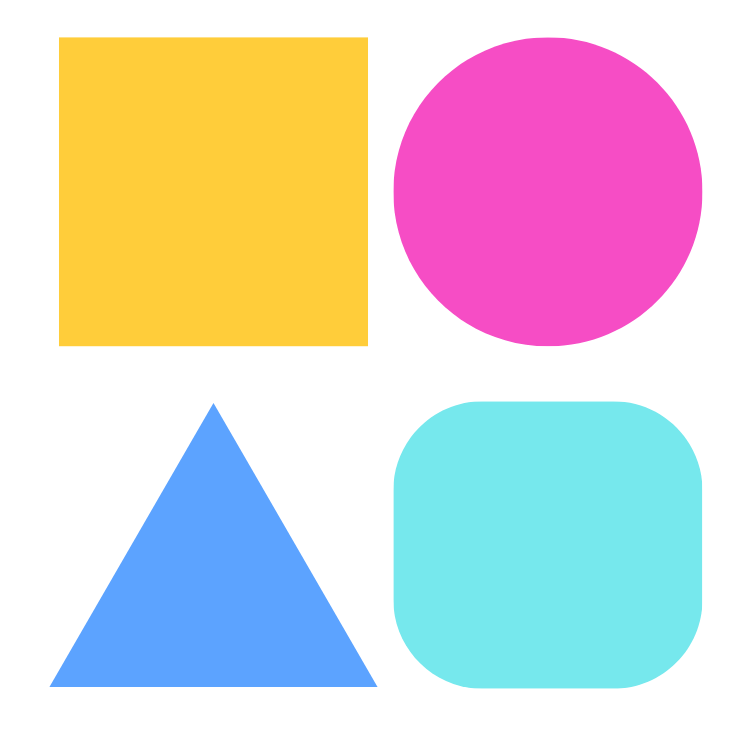
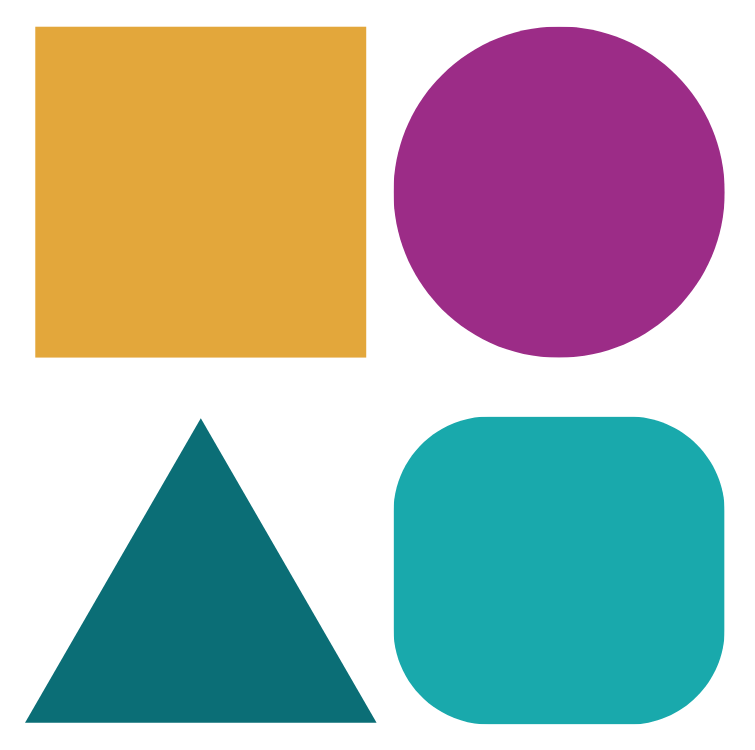
cambio de imagen de marca profesional en la portada del sitio web

diff --git a/themes/hugo-profile/layouts/partials/sections/footer/socialNetwork.html b/themes/hugo-profile/layouts/partials/sections/footer/socialNetwork.html
@@ -2,9 +2,9 @@
     {{ if .Site.Params.footer.socialNetworks.linkedin }}
     <span class="px-1">
         <a href="{{ .Site.Params.footer.socialNetworks.linkedin }}" aria-label="linkedin">
-            <svg xmlns="http://www.w3.org/2000/svg" width='2.4em' height='2.4em' fill="#fff" aria-label="LinkedIn"
+            <svg xmlns="http://www.w3.org/2000/svg" width='1.92em' height='1.92em' fill="#fff" aria-label="LinkedIn"
                 viewBox="0 0 512 512">
-                <rect width="512" height="512" fill="#0077b5" rx="15%" />
+                <rect width="512" height="512" fill="#9C2C87" rx="15%" />
                 <circle cx="142" cy="138" r="37" />
                 <path stroke="#fff" stroke-width="66" d="M244 194v198M142 194v198" />
                 <path d="M276 282c0-20 13-40 36-40 24 0 33 18 33 45v105h66V279c0-61-32-89-76-89-34 0-51 19-59 32" />
@@ -16,7 +16,7 @@
     {{ if .Site.Params.footer.socialNetworks.github }}
     <span class="px-1">
         <a href="{{ .Site.Params.footer.socialNetworks.github }}" aria-label="github">
-            <svg xmlns="http://www.w3.org/2000/svg" width="2.7em" height="2.7em" viewBox="0 0 1792 1792">
+            <svg xmlns="http://www.w3.org/2000/svg" width="2.16em" height="2.16em" viewBox="0 0 1792 1792" fill="#9C2C87">
                 <path
                     d="M522 1352q-8 9-20-3-13-11-4-19 8-9 20 3 12 11 4 19zm-42-61q9 12 0 19-8 6-17-7t0-18q9-7 17 6zm-61-60q-5 7-13 2-10-5-7-12 3-5 13-2 10 5 7 12zm31 34q-6 7-16-3-9-11-2-16 6-6 16 3 9 11 2 16zm129 112q-4 12-19 6-17-4-13-15t19-7q16 5 13 16zm63 5q0 11-16 11-17 2-17-11 0-11 16-11 17-2 17 11zm58-10q2 10-14 14t-18-8 14-15q16-2 18 9zm964-956v960q0 119-84.5 203.5t-203.5 84.5h-224q-16 0-24.5-1t-19.5-5-16-14.5-5-27.5v-239q0-97-52-142 57-6 102.5-18t94-39 81-66.5 53-105 20.5-150.5q0-121-79-206 37-91-8-204-28-9-81 11t-92 44l-38 24q-93-26-192-26t-192 26q-16-11-42.5-27t-83.5-38.5-86-13.5q-44 113-7 204-79 85-79 206 0 85 20.5 150t52.5 105 80.5 67 94 39 102.5 18q-40 36-49 103-21 10-45 15t-57 5-65.5-21.5-55.5-62.5q-19-32-48.5-52t-49.5-24l-20-3q-21 0-29 4.5t-5 11.5 9 14 13 12l7 5q22 10 43.5 38t31.5 51l10 23q13 38 44 61.5t67 30 69.5 7 55.5-3.5l23-4q0 38 .5 103t.5 68q0 22-11 33.5t-22 13-33 1.5h-224q-119 0-203.5-84.5t-84.5-203.5v-960q0-119 84.5-203.5t203.5-84.5h960q119 0 203.5 84.5t84.5 203.5z" />
 
@@ -42,8 +42,8 @@
 
     {{ if .Site.Params.footer.socialNetworks.twitter }}
     <a href="{{ .Site.Params.footer.socialNetworks.twitter }}" aria-label="twitter">
-        <svg xmlns="http://www.w3.org/2000/svg" viewBox="0 0 48 48" width="48px" height="48px">
-            <path fill="#03a9f4"
+        <svg xmlns="http://www.w3.org/2000/svg" viewBox="0 0 48 48" width="38.4px" height="38.4px">
+            <path fill="#9C2C87"
                 d="M42,37c0,2.762-2.239,5-5,5H11c-2.762,0-5-2.238-5-5V11c0-2.762,2.238-5,5-5h26c2.761,0,5,2.238,5,5 V37z" />
             <path fill="#fff"
                 d="M36,17.12c-0.882,0.391-1.999,0.758-3,0.88c1.018-0.604,2.633-1.862,3-3 c-0.951,0.559-2.671,1.156-3.793,1.372C31.311,15.422,30.033,15,28.617,15C25.897,15,24,17.305,24,20v2c-4,0-7.9-3.047-10.327-6 c-0.427,0.721-0.667,1.565-0.667,2.457c0,1.819,1.671,3.665,2.994,4.543c-0.807-0.025-2.335-0.641-3-1c0,0.016,0,0.036,0,0.057 c0,2.367,1.661,3.974,3.912,4.422C16.501,26.592,16,27,14.072,27c0.626,1.935,3.773,2.958,5.928,3c-1.686,1.307-4.692,2-7,2 c-0.399,0-0.615,0.022-1-0.023C14.178,33.357,17.22,34,20,34c9.057,0,14-6.918,14-13.37c0-0.212-0.007-0.922-0.018-1.13 C34.95,18.818,35.342,18.104,36,17.12" />
@@ -53,8 +53,8 @@
 
     {{ if .Site.Params.footer.socialNetworks.email }}
     <a href="mailto:{{ .Site.Params.footer.socialNetworks.email }}" aria-label="email">
-        <svg xmlns="http://www.w3.org/2000/svg" viewBox="0 0 48 48" width="48px" height="48px">
-            <rect width="42" height="32" x="3" y="8" fill="#0958d9" rx="6" />
+        <svg xmlns="http://www.w3.org/2000/svg" viewBox="0 0 48 48" width="38.4px" height="38.4px">
+            <rect width="42" height="32" x="3" y="8" fill="#9C2C87" rx="6" />
             <path fill="#fff"
                 d="M6 12.5 24 26 42 12.5" stroke="#fff" stroke-width="2.6" stroke-linecap="round" stroke-linejoin="round" fill="none" />
         </svg>
@@ -63,7 +63,7 @@
 
     {{ if .Site.Params.footer.socialNetworks.instagram }}
     <a href="{{ .Site.Params.footer.socialNetworks.instagram }}" aria-label="instagram">
-        <svg xmlns="http://www.w3.org/2000/svg" viewBox="0 0 48 48" width="48px" height="48px">
+        <svg xmlns="http://www.w3.org/2000/svg" viewBox="0 0 48 48" width="38.4px" height="38.4px">
             <radialGradient id="yOrnnhliCrdS2gy~4tD8ma" cx="19.38" cy="42.035" r="44.899"
                 gradientUnits="userSpaceOnUse">
                 <stop offset="0" stop-color="#fd5" />
@@ -94,7 +94,7 @@
 
     {{ if .Site.Params.footer.socialNetworks.facebook }}
     <a href="{{ .Site.Params.footer.socialNetworks.facebook }}" aria-label="facebook">
-        <svg xmlns="http://www.w3.org/2000/svg" viewBox="0 0 48 48" width="48px" height="48px">
+        <svg xmlns="http://www.w3.org/2000/svg" viewBox="0 0 48 48" width="38.4px" height="38.4px">
             <path fill="#3F51B5"
                 d="M42,37c0,2.762-2.238,5-5,5H11c-2.761,0-5-2.238-5-5V11c0-2.762,2.239-5,5-5h26c2.762,0,5,2.238,5,5V37z" />
             <path fill="#FFF"

diff --git a/themes/hugo-profile/static/css/index.css b/themes/hugo-profile/static/css/index.css
@@ -72,9 +72,17 @@ header .navbar.animate {
 /* hero */
 
 #hero {
-    min-height: 100vh;
+    min-height: 75vh;
     line-height: 2rem;
     max-width: 100%;
+    /* Manual de marca: teal como color primario dentro del Hero
+       (el tema trae --primary-color en azul #0958d9; lo sobreescribimos
+       solo en este bloque para no afectar el resto del sitio todavía) */
+    --primary-color: #0B6E76;
+    background-color: #FFFFFF;
+}
+body.dark #hero {
+    background-color: #18191A;
 }
 #hero .content.animate {
     animation: fade-left 1s ease-out;
@@ -87,14 +95,22 @@ header .navbar.animate {
     left: -150px;
 }
 
+/* Bloque 3: eyebrow + párrafo de presentación */
 #hero .subtitle {
     font-size: clamp(14px,5vw,16px);
-    opacity: 0.6;
+    color: #6B6F73;
+    opacity: 1;
+}
+body.dark #hero .subtitle {
+    color: #E4CBDF;
 }
 
 #hero h2 {
-    font-size: clamp(40px, 8vw, 80px);
-    color: #a3238e !important;
+    font-size: clamp(30px, 8vw, 70px);
+    color: #9C2C87 !important;
+}
+body.dark #hero h2 {
+    color: #9C2C87 !important;
 }
 
 #hero h3 {
@@ -106,7 +122,12 @@ header .navbar.animate {
 #hero p {
     margin: 20px 0px 0px;
     max-width: 640px;
-    opacity: 0.8;
+    font-size: 16px;
+    color: #6B6F73;
+    opacity: 1;
+}
+body.dark #hero p {
+    color: #E4CBDF;
 }
 
 #hero .image img {
@@ -132,14 +153,16 @@ header .navbar.animate {
     cursor: pointer;
 }
 
+/* Bloque 5: íconos de redes sociales */
 #hero a.btn.social-icon {
-    color: var(--primary-color) !important;
+    color: #9C2C87 !important;
+    background-color: transparent !important;
     line-height: 0%;
     border-radius: 50%;
     margin-top: 50px;
     padding: 0.7rem;
-    border: 1px solid var(--primary-color);
-    transition: none;
+    border: 1px solid #9C2C87;
+    transition: background-color 0.2s ease, color 0.2s ease;
 }
 
 #hero a.btn.social-icon img {
@@ -147,31 +170,30 @@ header .navbar.animate {
 }
 
 #hero a.btn.social-icon:hover {
-    opacity: 0.8;
+    background-color: #9C2C87 !important;
+    color: #E4CBDF !important;
+    opacity: 1;
 }
 
-#hero a.btn {
+/* Bloque 4: botón "Leer más sobre mí" — contorno en reposo, se rellena al pasar el ratón */
+#hero a.btn:not(.social-icon) {
     margin-top: 50px;
-    padding: 0.7rem 1.75rem;
-    border: 1px solid var(--primary-color);
-    color: var(--text-color) !important;
+    padding: 0.7rem calc(1.75rem - 0.5cm);
+    border: 1px solid #9C2C87;
+    background-color: transparent;
+    color: #9C2C87 !important;
     border-radius: .75rem;
-    transition: none;
+    transition: background-color 0.2s ease, color 0.2s ease;
 }
 
 #hero a.btn:focus {
     box-shadow: none;
 }
 
-#hero a.btn:hover {
-    background-color: var(--secondary-color) !important;
-    color: var(--text-color) !important;
-    opacity: 0.9;
-}
-
-#hero a.btn.social-icon:hover {
-    background-color: var(--background-color) !important;
-    opacity: 0.7;
+#hero a.btn:not(.social-icon):hover {
+    background-color: #9C2C87 !important;
+    color: #E4CBDF !important;
+    opacity: 1;
 }
 
 #hero .hero-content > a {

diff --git a/themes/hugo-profile/static/css/footer.css b/themes/hugo-profile/static/css/footer.css
@@ -15,7 +15,7 @@ footer .card {
     background-color: var(--secondary-color) !important;
     border-radius: .75rem;
     cursor: context-menu;
-    overflow: hidden;
+    overflow: hidden
 }
 
 footer .card:hover {
@@ -73,16 +73,16 @@ footer .card-footer a:focus {
 
 /* botón "Leer" con la misma dinámica que el del Blog */
 #recent-posts .card-footer a.read-more-btn {
-    color: var(--primary-color) !important;
-    border: 1px solid var(--primary-color) !important;
+    color: #9C2C87 !important;
+    border: 1px solid #9C2C87 !important;
     background-color: transparent !important;
     transition: all 0.2s ease-out;
 }
 
 #recent-posts .card-footer a.read-more-btn:hover,
 #recent-posts .card-footer a.read-more-btn:focus {
-    color: var(--secondary-color) !important;
-    background-color: var(--primary-color) !important;
+    color: #E4CBDF !important;
+    background-color: #9C2C87 !important;
     opacity: 1;
     box-shadow: none !important;
 }
@@ -90,18 +90,38 @@ footer .card-footer a:focus {
 /* más espacio y una línea separadora entre el contenido de la página y el footer */
 #recent-posts {
     padding-top: 3.5rem;
-    padding-bottom: 3.5rem;
+    padding-bottom: 7rem;
     margin-top: 1.5rem;
+    margin-bottom: 3rem;
     border-top: 1px solid rgba(15, 80, 100, 0.16);
 }
 
 .social-icons {
-    margin-top: 1.5rem;
-    margin-bottom: 5rem;
+    margin-top: 10rem;
+    margin-bottom: 15rem;
 }
 
 /* aviso de copyright más discreto */
 .site-copyright {
     font-size: 0.8rem;
-    padding-top: 1rem !important;
+    padding-top: 4rem !important;
+}
+
+/* modo oscuro: colores de "Posts recientes" */
+body.dark #recent-posts .h4.text-secondary {
+    color: #E4CBDF !important;
+}
+
+body.dark #recent-posts .card-title {
+    color: #D7E2E1 !important;
+}
+
+/* hover del título del post: mismo color de marca en modo día y modo noche */
+#recent-posts a.card-title:hover,
+#recent-posts a.card-title:hover .card-title {
+    color: #0B6E76 !important;
+}
+
+body.dark #recent-posts .card-text p {
+    color: #E4CBDF !important;
 }

diff --git a/themes/hugo-profile/layouts/partials/sections/hero/index.html b/themes/hugo-profile/layouts/partials/sections/hero/index.html
@@ -46,10 +46,10 @@
     <div class="hero-bottom-svg d-md-block d-lg-block d-none">
         <svg xmlns="http://www.w3.org/2000/svg" width="200" height="360" viewBox="0 0 200 360">
             <g id="brand-shapes-line">
-                <rect x="157" y="10" width="36" height="36" rx="6" fill="#ffcd3a" />
-                <circle cx="175" cy="128" r="18" fill="#f64dc5" />
-                <polygon points="175,208 157.7,238 192.3,238" fill="#5ca3ff" />
-                <rect x="157" y="310" width="36" height="36" rx="10" fill="#76e8ed" />
+                <rect x="157" y="10" width="36" height="36" rx="6" fill="#E3A73B" />
+                <circle cx="175" cy="128" r="18" fill="#9C2C87" />
+                <polygon points="175,208 157.7,238 192.3,238" fill="#0B6E76" />
+                <rect x="157" y="310" width="36" height="36" rx="10" fill="#1B9BA3" />
             </g>
         </svg>
     </div>

diff --git a/themes/hugo-profile/static/css/header.css b/themes/hugo-profile/static/css/header.css
@@ -3,8 +3,12 @@ header {
     position: relative;
 }
 
+/* Bloque 2: texto de la barra de navegación */
 header .navbar .navbar-nav a {
-    color: var(--text-color) !important;
+    color: #435456 !important;
+}
+body.dark header .navbar .navbar-nav a {
+    color: #D7E2E1 !important;
 }
 
 #theme-toggle {
@@ -31,12 +35,19 @@ header .navbar .navbar-nav a {
 header .nav-link{
     transition: none !important;
 }
+/* Bloque 1: logo / nombre de marca */
 .navbar-brand {
-    color: var(--primary-color) !important;
+    color: #0B6E76 !important;
     opacity: 0.95;
-} 
+}
+body.dark .navbar-brand {
+    color: #D7E2E1 !important;
+}
 .navbar .nav-link:hover {
-    color: var(--primary-color) !important;
+    color: #0B6E76 !important;
+}
+body.dark .navbar .nav-link:hover {
+    color: #0B6E76 !important;
 }
 
 li > .dropdown-toggle:focus{

diff --git a/themes/hugo-profile/static/css/theme.css b/themes/hugo-profile/static/css/theme.css
@@ -5,6 +5,13 @@
 }
 
 /* dark mode */
+/* fondo del body en modo oscuro: evita que se asome el blanco por defecto
+   del navegador en los huecos/márgenes entre secciones (p. ej. antes de
+   "Posts recientes" en el footer, visible en todas las páginas) */
+body.dark {
+    background-color: var(--background-color-dark) !important;
+}
+
 .dark {
     --background-color: var(--background-color-dark) !important;
     --secondary-background-color: var(--secondary-background-color-dark) !important;
@@ -48,6 +55,5 @@ body:not(.dark) #sun {
 }
 
 body *::selection {
-    color: #343a40 !important;
-    background-color: #ffcd3a !important;
+    background-color: rgba(227, 167, 59, 0.5) !important;
 }

diff --git a/themes/hugo-profile/layouts/_default/about.html b/themes/hugo-profile/layouts/_default/about.html
@@ -1,6 +1,8 @@
 {{ define "head" }}
 <meta name="description" content="{{ .Params.description }}">
 <link rel="stylesheet" href="{{.Site.Params.staticPath}}/css/about.css">
+<!-- estilos de la sección "Logros" (tarjetas), movida aquí desde la portada -->
+<link rel="stylesheet" href="{{.Site.Params.staticPath}}/css/index.css">
 
 <!-- fontawesome -->
 <script defer src="{{.Site.Params.staticPath}}/fontawesome-5/all-5.15.4.js"></script>
@@ -64,6 +66,8 @@
         <i class="fas fa-angle-up"></i>
     </button>
 </section>
+
+{{- partial "sections/achievements.html" . -}}
 
 <script>
     var topScroll = document.getElementById("topScroll");

diff --git a/themes/hugo-profile/layouts/index.html b/themes/hugo-profile/layouts/index.html
@@ -30,5 +30,4 @@ Linda Cabrera Orellana | Analista de Datos y Docencia en R
 {{- partial "sections/about.html" . -}}
 {{- partial "sections/experience.html" . -}}
 {{- partial "sections/education.html" . -}}
-{{- partial "sections/achievements.html" . -}}
 {{ end }}
